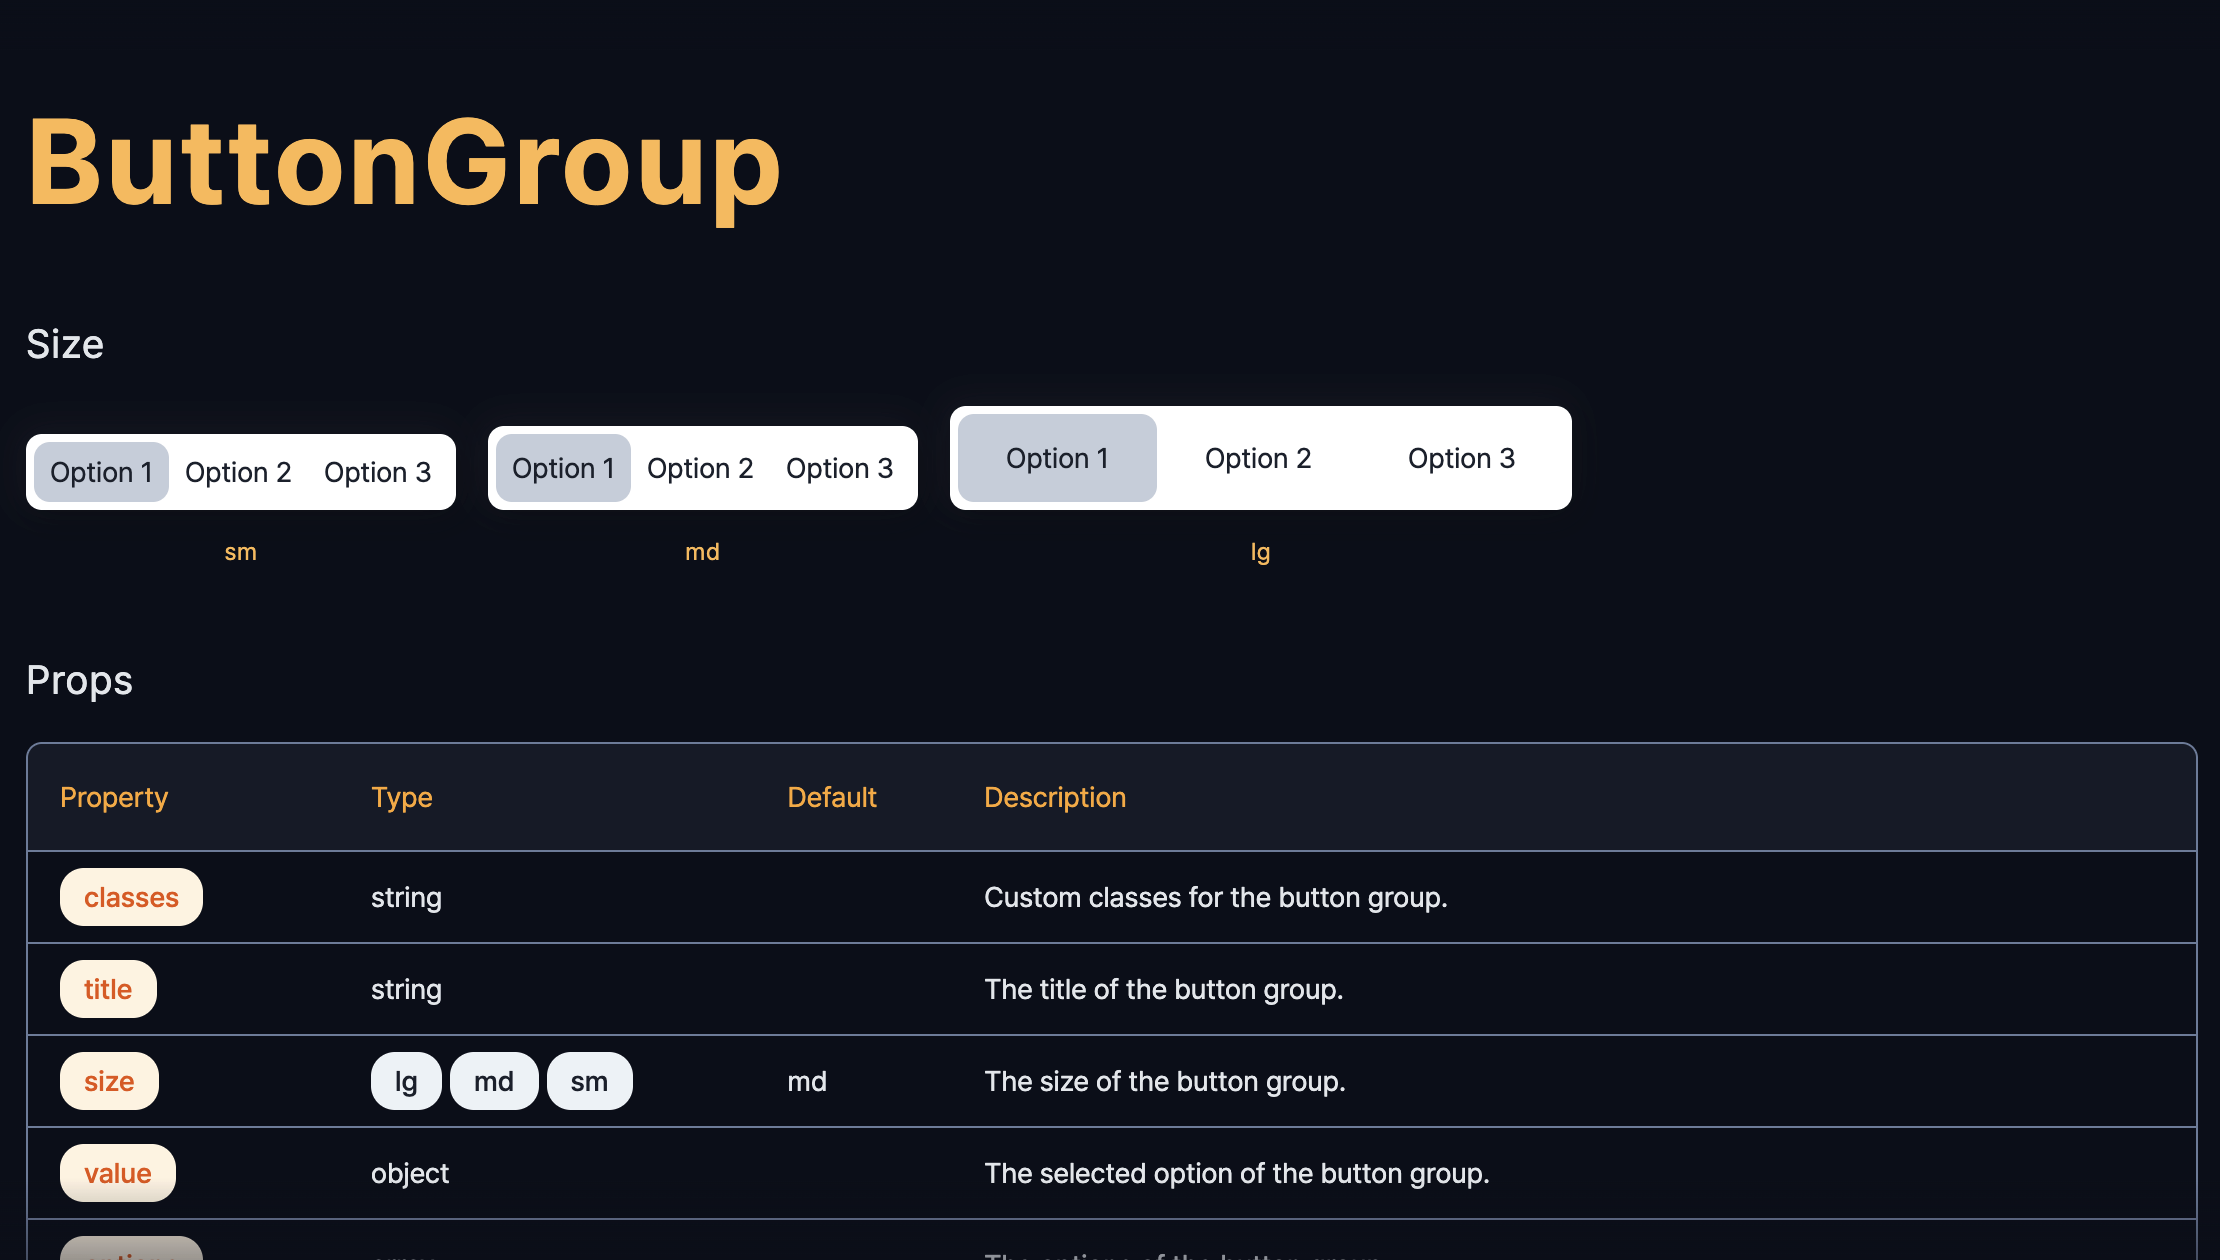
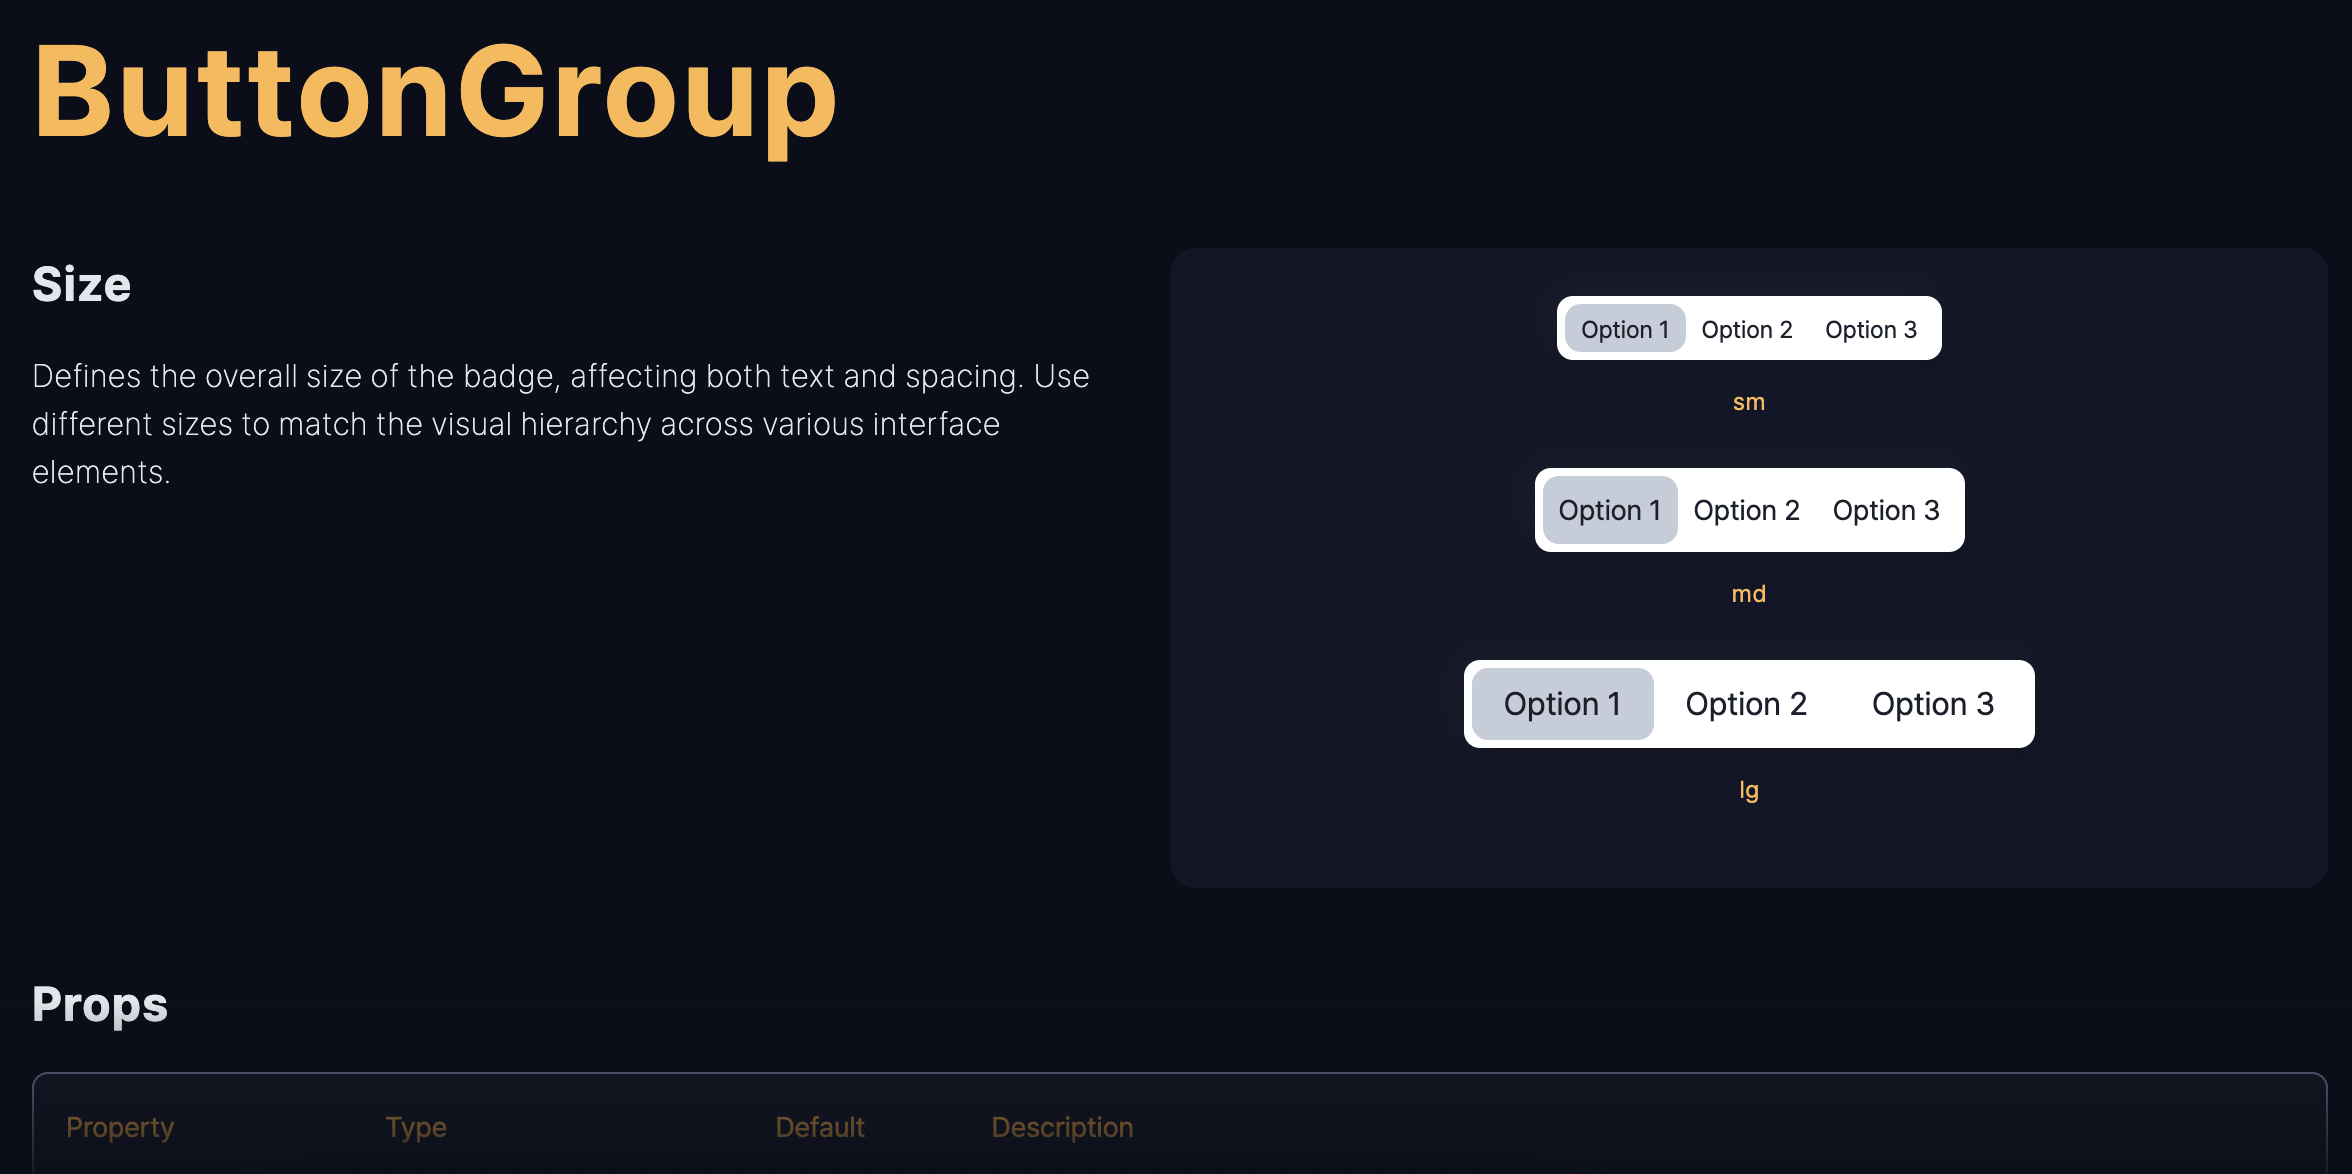
feat: add desc to buttonGroup

diff --git a/src/design-system/components/buttonGroup/ButtonGroupSizeGuide.tsx b/src/design-system/components/buttonGroup/ButtonGroupSizeGuide.tsx
@@ -31,26 +31,36 @@ const ButtonGroupSizeGuide = () => {
   };
 
   return (
-    <FlexWrapper classes="w-full" items="start" direction="col">
-      <Typography variant="H3">Size</Typography>
-      <FlexWrapper classes="size-full" items="center">
-        <FlexWrapper items="end">
-          {sizeOptions.map((option) => (
-            <div key={option.id}>
-              <FlexWrapper classes="!gap-3" direction="col" items="center">
-                <ButtonGroup
-                  size={option.id}
-                  value={selectedOption}
-                  options={buttonGroupOptions}
-                  onChange={handleChangeOption}
-                />
-                <Typography variant="C1" color="secondary">
-                  {option.id}
-                </Typography>
-              </FlexWrapper>
-            </div>
-          ))}
-        </FlexWrapper>
+    <FlexWrapper classes="size-full lg:flex-row" direction="col" items="start">
+      <FlexWrapper classes="w-full" items="start" direction="col">
+        <Typography variant="H3">Size</Typography>
+        <Typography variant="B1">
+          Defines the overall size of the buttonGroup, affecting both text and spacing. Use
+          different sizes to match the visual hierarchy across various interface elements.
+        </Typography>
+      </FlexWrapper>
+      <FlexWrapper
+        items="center"
+        direction="col"
+        justify="start"
+        classes="bg-primary-900 p-6 w-full rounded-xl pb-10"
+        gap={6}
+      >
+        {sizeOptions.map((option) => (
+          <div key={option.id}>
+            <FlexWrapper classes="!gap-3" direction="col" items="center">
+              <ButtonGroup
+                size={option.id}
+                value={selectedOption}
+                options={buttonGroupOptions}
+                onChange={handleChangeOption}
+              />
+              <Typography variant="C1" color="secondary">
+                {option.id}
+              </Typography>
+            </FlexWrapper>
+          </div>
+        ))}
       </FlexWrapper>
     </FlexWrapper>
   );

diff --git a/src/design-system/layout/ProjectModal.tsx b/src/design-system/layout/ProjectModal.tsx
@@ -45,7 +45,7 @@ export default function ProjectModal({
   return (
     <AnimatePresence>
       {isOpen && (
-        <motion.div className="fixed inset-0 bottom-0 z-50 flex items-center justify-center gap-4">
+        <motion.div className="fixed inset-0 bottom-0 z-50 flex items-center justify-center">
           {/* Overlay */}
           <motion.div className="absolute inset-0 bg-black/80 backdrop-blur-xs" onClick={onClose} />
           <Button
@@ -53,7 +53,7 @@ export default function ProjectModal({
             variant="clear"
             size="md"
             disabled={currentPage === 0}
-            classes="!p-3 !size-[48px] relative z-10"
+            classes="!p-3 !size-[48px] relative z-10 hidden sm:flex"
           >
             <LuChevronLeft className="text-3xl text-white" />
           </Button>
@@ -107,7 +107,7 @@ export default function ProjectModal({
             variant="clear"
             disabled={currentPage === 6}
             size="md"
-            classes="!p-3 !size-[48px] relative z-10"
+            classes="!p-3 !size-[48px] relative z-10 hidden sm:flex"
           >
             <LuChevronRight className="text-3xl text-white" />
           </Button>

diff --git a/src/design-system/components/ButtonGroup.tsx b/src/design-system/components/ButtonGroup.tsx
@@ -9,9 +9,9 @@ const ButtonGroup = (props: Common.ButtonGroupProps) => {
   const { title, classes, size = 'md', value, options, onChange } = props;
 
   const sizeClasses = {
-    sm: 'h-[30px] text-xs w-max',
+    sm: 'h-[24px] text-xs w-max',
     md: 'h-[34px] text-sm',
-    lg: 'h-[44px] !px-6 text-lg',
+    lg: 'h-[36px] !px-4 text-base',
   };
 
   return (
@@ -28,7 +28,7 @@ const ButtonGroup = (props: Common.ButtonGroupProps) => {
             key={option.id}
             type="button"
             className={classNames(
-              'rounded-lg !border-0 !px-2 !py-[4px] !text-sm text-gray-800 transition-all duration-200 ease-in-out',
+              'rounded-lg !border-0 !px-2 !py-[4px] text-gray-800 transition-all duration-200 ease-in-out',
               { 'bg-primary-200': value.id === option.id },
               sizeClasses[size],
             )}
